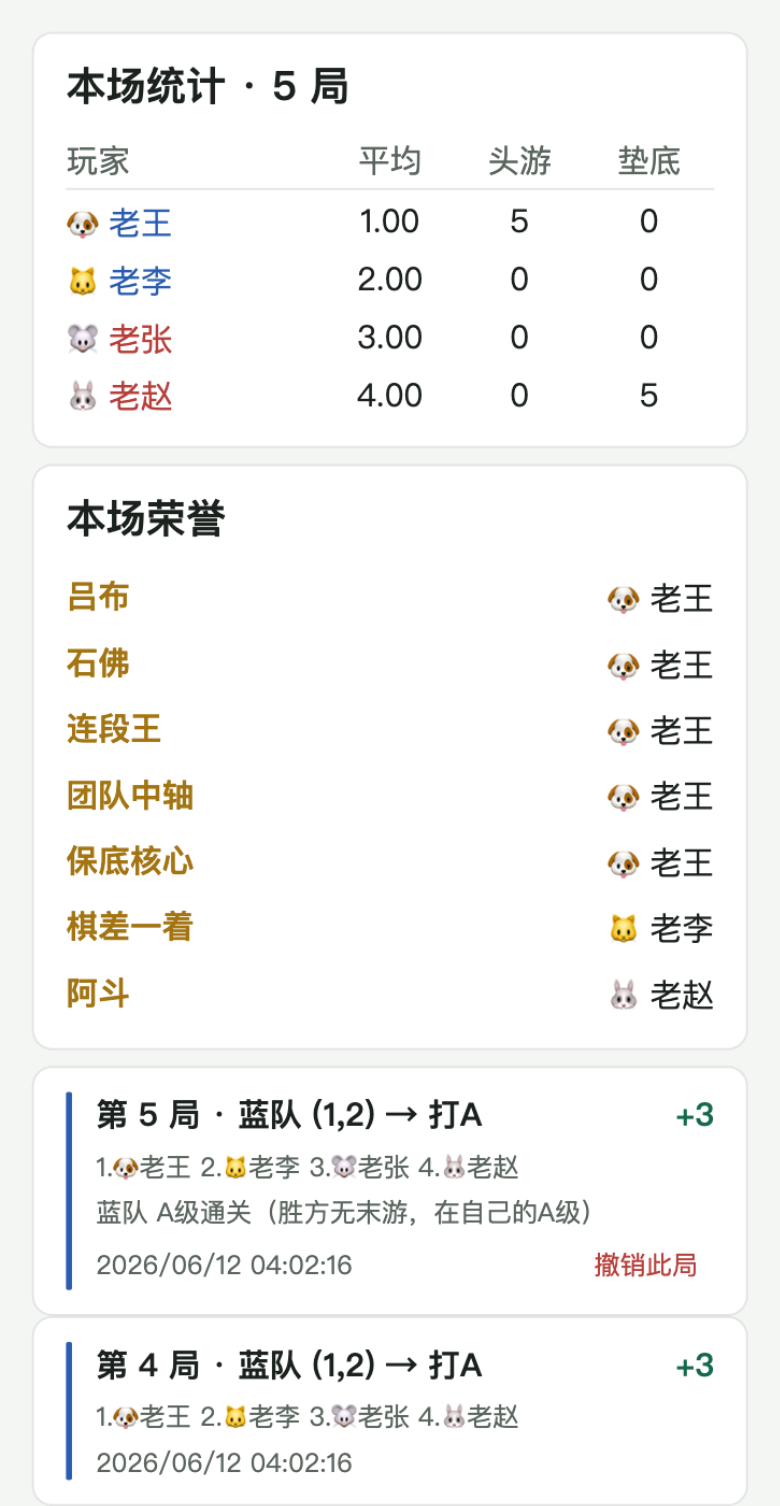
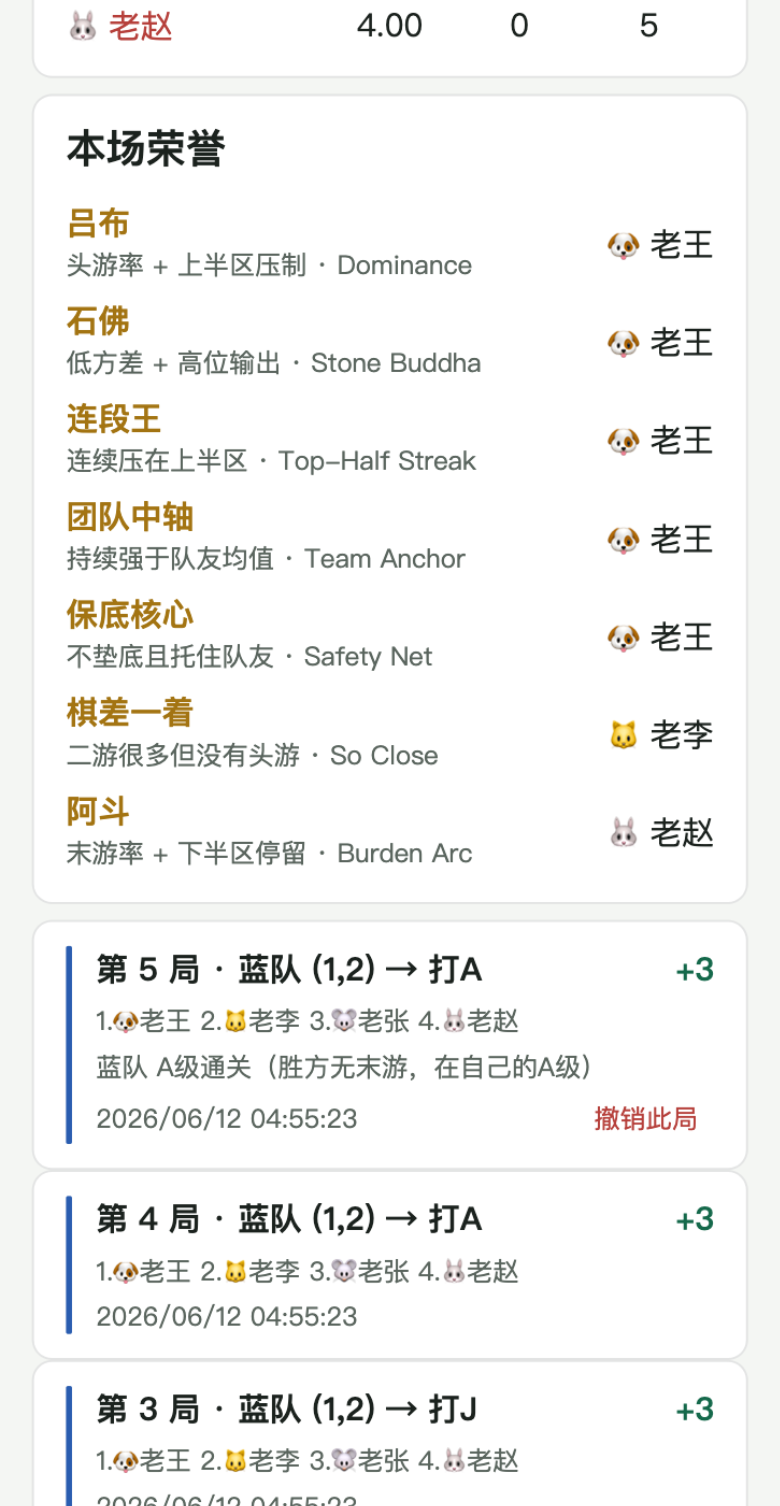
feat: 天梯起评分（web 历史折算）+ 海报 MVP 宣言 + automator 连接超时
- core/ladder.js seedLadderRating：1000+置信度×(500×(胜率−0.5)+100×名次项)，
  钳 [700,1300]；只在 sessions=0 时垫底，永不覆盖已挣分
- profile_sync：pool 一次查全 seat handles（绑定兜底+起评分两用）；
  队伍均分对无评分玩家用起评分；首次入梯以起评分为基底
- pool_list：未挣分玩家现算起评分展示（ladderProvisional 标记），全榜从第一天有序
- 天梯页：起评分带 * 后缀 + 说明行
- poster：opts.mvpTagline 渲染 MVP 宣言引言（web 手机版对位）；index 页并行拉
  vote_tally + MVP tagline
- launchOrConnect：connect/launch 全程超时 + 探活，僵尸自动化会话不再挂死 E2E

diff --git a/cloudfunctions/profile_sync/index.js b/cloudfunctions/profile_sync/index.js
@@ -68,6 +68,20 @@ function applyLadderDelta(ladder, delta) {
   const peak = Math.max(rating, Number.isFinite(Number(cur.peak)) ? Number(cur.peak) : LADDER_BASE);
   return { rating, sessions, peak };
 }
+
+function seedLadderRating(webStats) {
+  const s = Math.max(0, Number(webStats && webStats.sessionsPlayed) || 0);
+  if (s <= 0) return LADDER_BASE;
+  const won = Math.min(s, Math.max(0, Number(webStats.sessionsWon) || 0));
+  const winRate = won / s;
+  const avgRank = Number(webStats.avgRankingPerSession);
+  const rankNorm = Number.isFinite(avgRank) && avgRank >= 1
+    ? (4.5 - Math.min(avgRank, 8)) / 3.5
+    : 0;
+  const conf = Math.min(s, 20) / 20;
+  const rating = Math.round(LADDER_BASE + conf * (500 * (winRate - 0.5) + 100 * rankNorm));
+  return Math.max(700, Math.min(1300, rating));
+}
 // ===== 天梯分镜像结束 =====
 
 function freshStats() {
@@ -224,20 +238,23 @@ exports.main = async (event) => {
       identityByOpenid.set(claim.openid, { nickname: claim.nickname, avatarUrl: claim.avatarUrl });
     }
   }
-  // pool 绑定兜底（认领过的座位不覆盖）
-  const handles = snapshotPlayers
-    .filter(p => p && p.handle && !openidByPlayerId.has(p.id))
+  // pool 文档一次查全（两用：① 未认领座位的绑定兜底 ② 天梯起评分的 web 历史）
+  const allHandles = snapshotPlayers
+    .filter(p => p && p.handle)
     .map(p => String(p.handle).toLowerCase());
-  if (handles.length > 0) {
+  const poolByHandle = new Map();
+  if (allHandles.length > 0) {
     const _cmd = db.command;
     const poolRes = await db.collection('pool')
-      .where({ handle: _cmd.in(handles), boundOpenid: _cmd.exists(true) })
+      .where({ handle: _cmd.in(allHandles) })
+      .limit(100)
       .get()
       .catch(() => ({ data: [] }));
-    const boundByHandle = new Map(poolRes.data.map(d => [d.handle, d]));
+    for (const d of poolRes.data) poolByHandle.set(d.handle, d);
+    // 绑定兜底（认领过的座位不覆盖）
     for (const p of snapshotPlayers) {
       if (!p || !p.handle || openidByPlayerId.has(p.id)) continue;
-      const pool = boundByHandle.get(String(p.handle).toLowerCase());
+      const pool = poolByHandle.get(String(p.handle).toLowerCase());
       if (pool && pool.boundOpenid) {
         openidByPlayerId.set(p.id, pool.boundOpenid);
         if (!identityByOpenid.has(pool.boundOpenid)) {
@@ -245,6 +262,12 @@ exports.main = async (event) => {
         }
       }
     }
+  }
+  const webStatsByPlayerId = new Map();
+  for (const p of snapshotPlayers) {
+    if (!p || !p.handle) continue;
+    const pool = poolByHandle.get(String(p.handle).toLowerCase());
+    if (pool && pool.webStats) webStatsByPlayerId.set(p.id, pool.webStats);
   }
 
   if (openidByPlayerId.size === 0) {
@@ -296,12 +319,18 @@ exports.main = async (event) => {
       .map(id => openidByPlayerId.get(Number(id)))
       .filter(Boolean);
 
-    // 天梯分：评分只取服务端 players 文档（client 不可注入）；未绑定玩家按 LADDER_BASE 计入队伍均分
-    const ratingByOpenid = new Map();
+    // 天梯分：评分只取服务端 players 文档（client 不可注入）。
+    // 没挣过分的人（含未绑定）用 web 历史折算起评分计入队伍均分 —— 期望胜率比裸 1000 准。
+    const ladderByOpenid = new Map();
     for (const [openid, entry] of touched) {
-      const ladder = entry.doc.stats.ladder;
-      ratingByOpenid.set(openid, ladder && Number.isFinite(Number(ladder.rating)) ? Number(ladder.rating) : LADDER_BASE);
+      ladderByOpenid.set(openid, entry.doc.stats.ladder || null);
     }
+    const ratingFor = (playerId) => {
+      const openid = openidByPlayerId.get(playerId);
+      const lad = openid ? ladderByOpenid.get(openid) : null;
+      if (lad && Number(lad.sessions) > 0 && Number.isFinite(Number(lad.rating))) return Number(lad.rating);
+      return seedLadderRating(webStatsByPlayerId.get(playerId));
+    };
     const avgRankingByPlayerId = new Map(sessions.map(s => [Number(s.playerId), Math.min(MAX_RANK, nonNeg(s.avgRanking))]));
     const winnerTeam = (snapshot.gameStatus && snapshot.gameStatus.winnerKey) === 't2' ? 2 : 1;
     const ladderDeltas = computeLadderDeltas({
@@ -310,7 +339,7 @@ exports.main = async (event) => {
       players: snapshotPlayers.map(p => ({
         id: p.id,
         team: Number(p.team),
-        rating: openidByPlayerId.has(p.id) ? ratingByOpenid.get(openidByPlayerId.get(p.id)) : undefined,
+        rating: ratingFor(p.id),
         avgRanking: avgRankingByPlayerId.has(Number(p.id)) ? avgRankingByPlayerId.get(Number(p.id)) : null
       }))
     });
@@ -325,7 +354,13 @@ exports.main = async (event) => {
       };
       if (applySession(entry.doc.stats, filtered, keys.gameKey, authoritativeMode)) {
         applied++;
-        // 与战绩同一道 gameKey 幂等闸：只有新入库的场次才动天梯分
+        // 与战绩同一道 gameKey 幂等闸：只有新入库的场次才动天梯分。
+        // 首次入梯（sessions=0）：用 web 历史起评分垫底，不覆盖已挣的分
+        const lad = entry.doc.stats.ladder;
+        if ((!lad || !Number(lad.sessions)) && webStatsByPlayerId.has(Number(s.playerId))) {
+          const seed = seedLadderRating(webStatsByPlayerId.get(Number(s.playerId)));
+          entry.doc.stats.ladder = { rating: seed, sessions: 0, peak: seed };
+        }
         entry.doc.stats.ladder = applyLadderDelta(entry.doc.stats.ladder, ladderDeltas.get(String(s.playerId)) || 0);
       } else skipped++;
       const identity = identityByOpenid.get(openid) || {};

diff --git a/cloudfunctions/pool_list/index.js b/cloudfunctions/pool_list/index.js
@@ -7,6 +7,22 @@ const cloud = require('wx-server-sdk');
 
 cloud.init({ env: cloud.DYNAMIC_CURRENT_ENV });
 
+// 镜像 miniprogram/core/ladder.js seedLadderRating —— 改那边记得同步这里
+const LADDER_BASE = 1000;
+function seedLadderRating(webStats) {
+  const s = Math.max(0, Number(webStats && webStats.sessionsPlayed) || 0);
+  if (s <= 0) return LADDER_BASE;
+  const won = Math.min(s, Math.max(0, Number(webStats.sessionsWon) || 0));
+  const winRate = won / s;
+  const avgRank = Number(webStats.avgRankingPerSession);
+  const rankNorm = Number.isFinite(avgRank) && avgRank >= 1
+    ? (4.5 - Math.min(avgRank, 8)) / 3.5
+    : 0;
+  const conf = Math.min(s, 20) / 20;
+  const rating = Math.round(LADDER_BASE + conf * (500 * (winRate - 0.5) + 100 * rankNorm));
+  return Math.max(700, Math.min(1300, rating));
+}
+
 exports.main = async () => {
   const { OPENID } = cloud.getWXContext();
   const db = cloud.database();
@@ -29,6 +45,8 @@ exports.main = async () => {
       const doc = p.boundOpenid ? playerByOpenid.get(p.boundOpenid) : null;
       const stats = doc && doc.stats ? doc.stats : null;
       const ladder = stats && stats.ladder;
+      // 挣过分用真分；没挣过（含未绑定）用 web 历史折算起评分（现算不落库，确定性）
+      const earned = Boolean(ladder && Number(ladder.sessions) > 0 && Number.isFinite(Number(ladder.rating)));
       return {
         handle: p.handle,
         displayName: p.displayName,
@@ -37,15 +55,13 @@ exports.main = async () => {
         sessionsPlayed: (p.webStats && p.webStats.sessionsPlayed) || 0,
         bound: Boolean(p.boundOpenid),
         boundToMe: Boolean(p.boundOpenid && p.boundOpenid === OPENID),
-        ladder: ladder && Number.isFinite(Number(ladder.rating)) ? Number(ladder.rating) : null,
+        ladder: earned ? Number(ladder.rating) : seedLadderRating(p.webStats),
+        ladderProvisional: !earned,
         wxSessions: stats ? Number(stats.sessionsPlayed) || 0 : 0
       };
     });
-    // 天梯榜序：有评分在前按分数，其余按 web 场次
-    players.sort((a, b) =>
-      (b.ladder === null ? -1 : b.ladder) - (a.ladder === null ? -1 : a.ladder) ||
-      b.sessionsPlayed - a.sessionsPlayed
-    );
+    // 天梯榜序：按分数（起评分也参与），同分按 web 场次
+    players.sort((a, b) => b.ladder - a.ladder || b.sessionsPlayed - a.sessionsPlayed);
     return { ok: true, players };
   } catch (err) {
     // pool 集合尚未导入 → 空池

diff --git a/miniprogram/core/ladder.js b/miniprogram/core/ladder.js
@@ -56,6 +56,28 @@ export function computeLadderDeltas({ mode, winnerTeam, players }) {
   return deltas;
 }
 
+/**
+ * 起评分：从 web 版历史战绩折算首次天梯分（用户 2026-06-12 拍板）。
+ * 起评分 = 1000 + 置信度×(500×(胜率−0.5) + 100×(4.5−场均名次)/3.5)，钳 [700,1300]；
+ * 置信度 = min(场次,20)/20 —— 场次少贴 1000 起步。只在 ladder.sessions===0 时用，
+ * 永不覆盖已挣的分。场均名次按 8 人局中位 4.5 归一（web 历史以 8 人局为主，
+ * 混入 4/6 人局会被 100 的低权重钳住失真）。
+ * @param {{sessionsPlayed?: number, sessionsWon?: number, avgRankingPerSession?: number}} webStats
+ */
+export function seedLadderRating(webStats) {
+  const s = Math.max(0, Number(webStats && webStats.sessionsPlayed) || 0);
+  if (s <= 0) return LADDER_BASE;
+  const won = Math.min(s, Math.max(0, Number(webStats.sessionsWon) || 0));
+  const winRate = won / s;
+  const avgRank = Number(webStats.avgRankingPerSession);
+  const rankNorm = Number.isFinite(avgRank) && avgRank >= 1
+    ? (4.5 - Math.min(avgRank, 8)) / 3.5
+    : 0;
+  const conf = Math.min(s, 20) / 20;
+  const rating = Math.round(LADDER_BASE + conf * (500 * (winRate - 0.5) + 100 * rankNorm));
+  return Math.max(700, Math.min(1300, rating));
+}
+
 /** 把一场的增量应用到单人 ladder 累计（{rating, sessions, peak}，缺省补全） */
 export function applyLadderDelta(ladder, delta) {
   const cur = ladder && typeof ladder === 'object' ? ladder : {};

diff --git a/miniprogram/pages/index/index.ts b/miniprogram/pages/index/index.ts
@@ -466,14 +466,29 @@ Page({
     return votes.mvp.length || votes.burden.length ? votes : null;
   },
 
+  /** MVP 宣言（海报引言，web 版对位）：MVP 座位带池 handle 时取其 tagline */
+  async collectMvpTagline(s: { gameStatus: { ended?: boolean } | null; players: Array<{ id: number; handle?: string | null }> }) {
+    if (!s.gameStatus?.ended || !wx.cloud) return '';
+    const mvp = computeSessionMvp(s);
+    const handle = mvp && s.players.find((p) => p.id === mvp.id)?.handle;
+    if (!handle) return '';
+    const res = await wx.cloud.callFunction({ name: 'profile_get_by_handle', data: { handle } });
+    const r = (res.result || {}) as { ok: boolean; pool?: { tagline?: string } };
+    return (r.ok && r.pool && r.pool.tagline) || '';
+  },
+
   /** 生成战绩长图（对齐 web 手机版导出的信息密度）并存相册 */
   async onSavePoster() {
     const s = getStore().getState();
     wx.showLoading({ title: '生成长图…' });
-    const votes = await this.collectPosterVotes(s).catch(() => null);
+    const [votes, mvpTagline] = await Promise.all([
+      this.collectPosterVotes(s).catch(() => null),
+      this.collectMvpTagline(s).catch(() => '')
+    ]);
     const layout = buildPosterLayout(s, {
       roomCode: getOwnerSession().getCode(),
       votes,
+      mvpTagline,
       timestamp: new Date().toLocaleString('zh-CN', { hour12: false })
     });
     wx.createSelectorQuery()

diff --git a/miniprogram/core/poster.js b/miniprogram/core/poster.js
@@ -88,9 +88,10 @@ function wrapRankingTokens(playerRankings, fontSize, maxWidth, maxLines) {
  * @param {string|null} [opts.roomCode]
  * @param {{mvp: Array<{emoji,name,count}>, burden: Array<{emoji,name,count}>}|null} [opts.votes] - 观众投票（调用方从 vote_tally 取）
  * @param {string} [opts.timestamp] - 已格式化的当前时间（保持纯函数，时钟由调用方注入）
+ * @param {string} [opts.mvpTagline] - MVP 的玩家宣言（池玩家 tagline，web 版 MVP 引言对位）
  */
 export function buildPosterLayout(state, opts = {}) {
-  const { roomCode = null, votes = null, timestamp = '' } = opts;
+  const { roomCode = null, votes = null, timestamp = '', mvpTagline = '' } = opts;
   const W = POSTER_W;
   const ops = [];
   const text = (t, x, y, font, color, align) =>
@@ -123,6 +124,10 @@ export function buildPosterLayout(state, opts = {}) {
     if (mvp) {
       text(`MVP：${mvp.emoji}${mvp.name}（平均 ${mvp.avgRanking.toFixed(2)} 名）`, 40, y, 'bold 22px sans-serif', C.gold);
       y += 36;
+      if (mvpTagline) {
+        text(`“${String(mvpTagline).slice(0, 30)}”`, 40, y, 'italic 20px sans-serif', C.accent);
+        y += 32;
+      }
     }
     const last = history[history.length - 1];
     const durMs = last ? Number(last.sessionDuration) : 0;

diff --git a/miniprogram/pages/players/players.ts b/miniprogram/pages/players/players.ts
@@ -9,7 +9,8 @@ interface PoolRow {
   sessionsPlayed: number;
   bound: boolean;
   boundToMe: boolean;
-  ladder: number | null;
+  ladder: number;
+  ladderProvisional: boolean;
   wxSessions: number;
 }
 
@@ -43,7 +44,8 @@ Page({
       const rows = (r.players || []).map((p, i) => ({
         ...p,
         rank: i + 1,
-        ladderText: p.ladder === null ? '—' : String(p.ladder)
+        // * = 起评分（web 历史折算，还没打过小程序场）
+        ladderText: Number.isFinite(p.ladder) ? `${p.ladder}${p.ladderProvisional ? '*' : ''}` : '—'
       }));
       this.setData({ loading: false, rows });
     }).catch(() => {